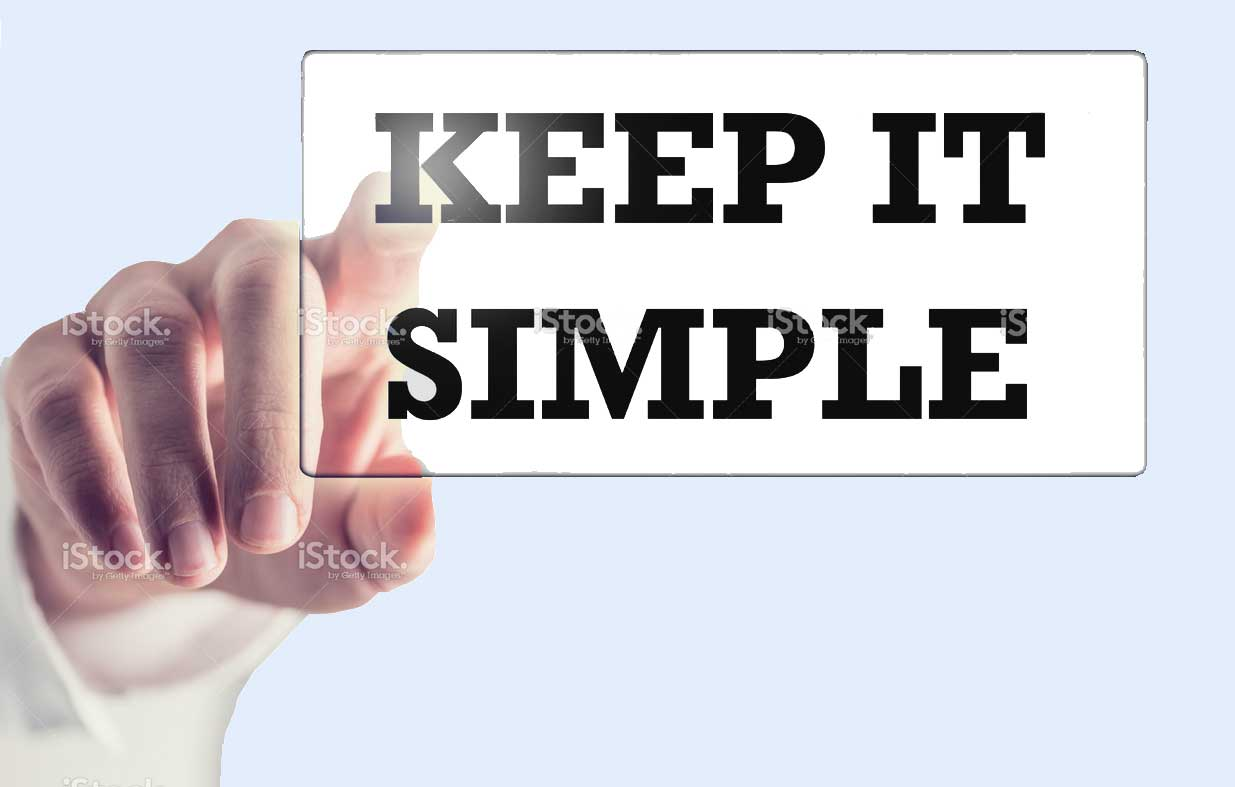
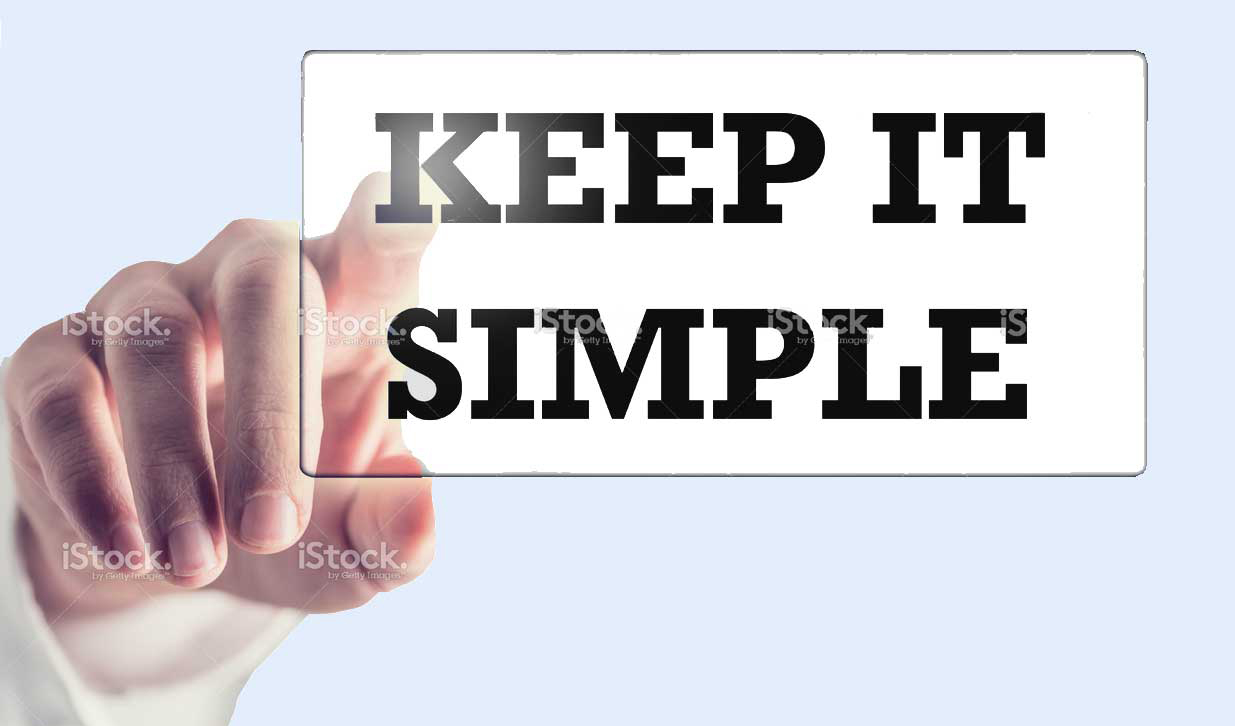
tuning up some flaws

diff --git a/planningDiscipline/_default/infoPanels/e_Easy_to_Use.html b/planningDiscipline/_default/infoPanels/e_Easy_to_Use.html
@@ -26,7 +26,7 @@ Each Section Has Its Own Menu
 Every Detail is Taken into Account
 </div>
 
-<img id='info_e_simple' class='inspiration ' src='../images/info_e_simple_42810318.jpg' style='bottom: -7vh; left: 6vw;'>
+<img id='info_e_simple' class='inspiration ' src='../images/info_e_simple_42810318.jpg' style='bottom: -9vh; left: 6vw;'>
 
 </div>
 

diff --git a/planningDiscipline/_default/infoPanels/c_Reports_and_Presentations.html b/planningDiscipline/_default/infoPanels/c_Reports_and_Presentations.html
@@ -31,6 +31,6 @@ Reports and Online Presentations Keep Plan Active
 
 </div>
 
-<div class='punchline' style=''>Simplify Stakeholder Communications</div>
+<div class='punchline c_punchline' style=''>Simplify Stakeholder Communications</div>
 
 </div>
